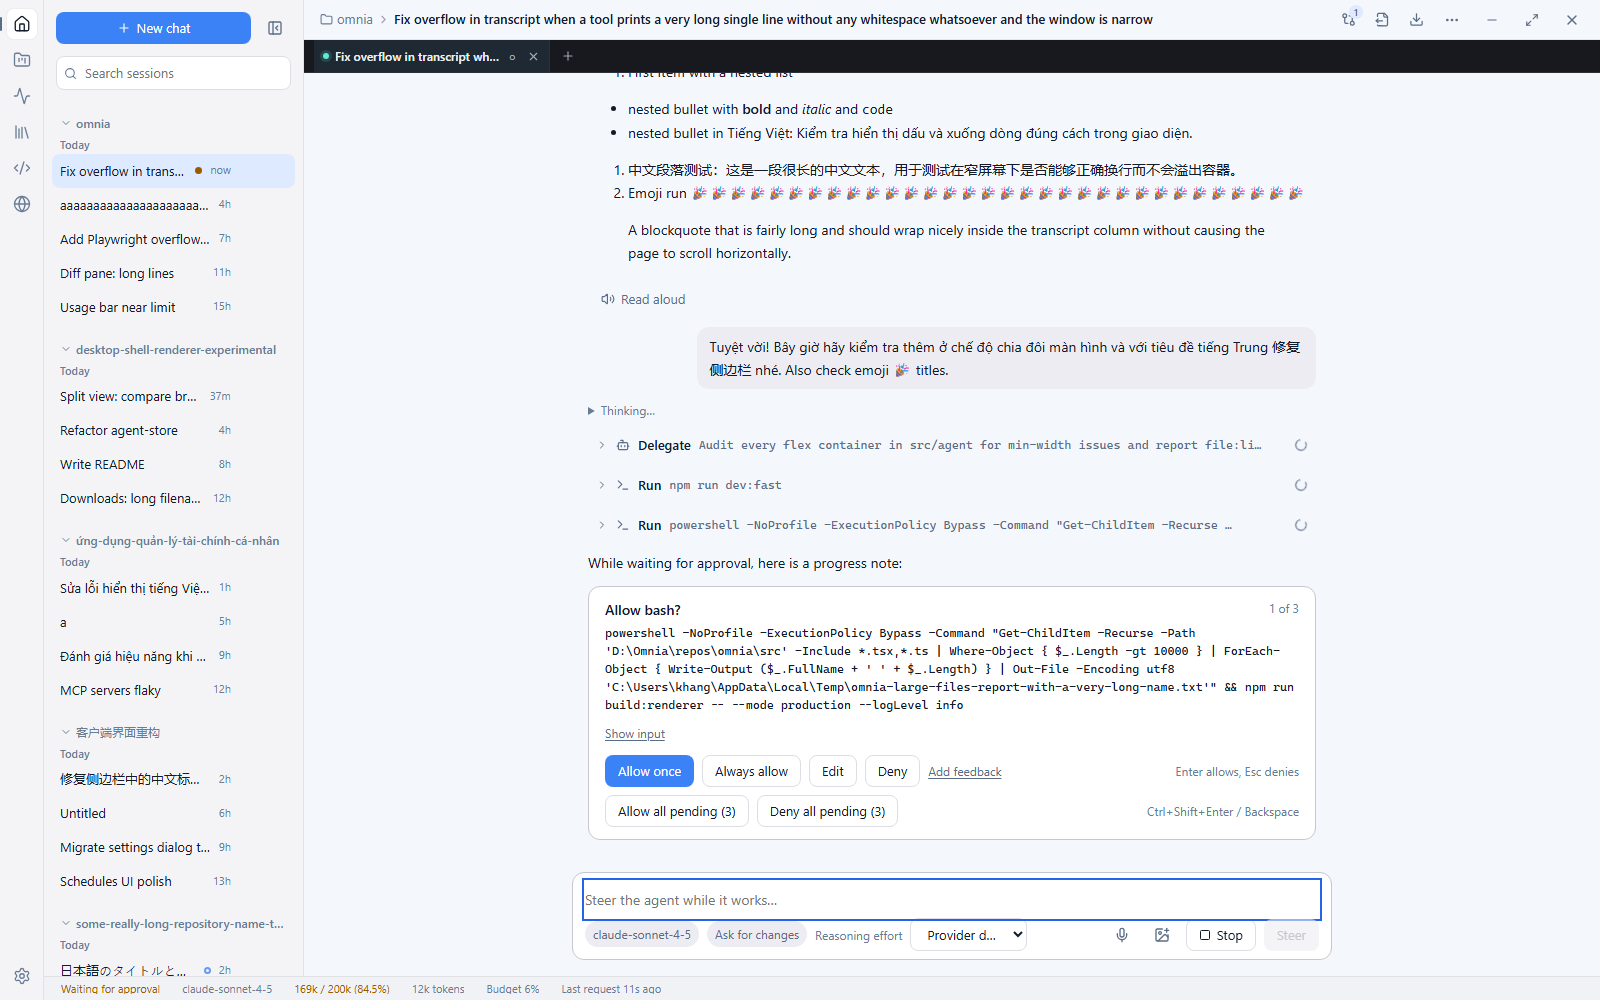
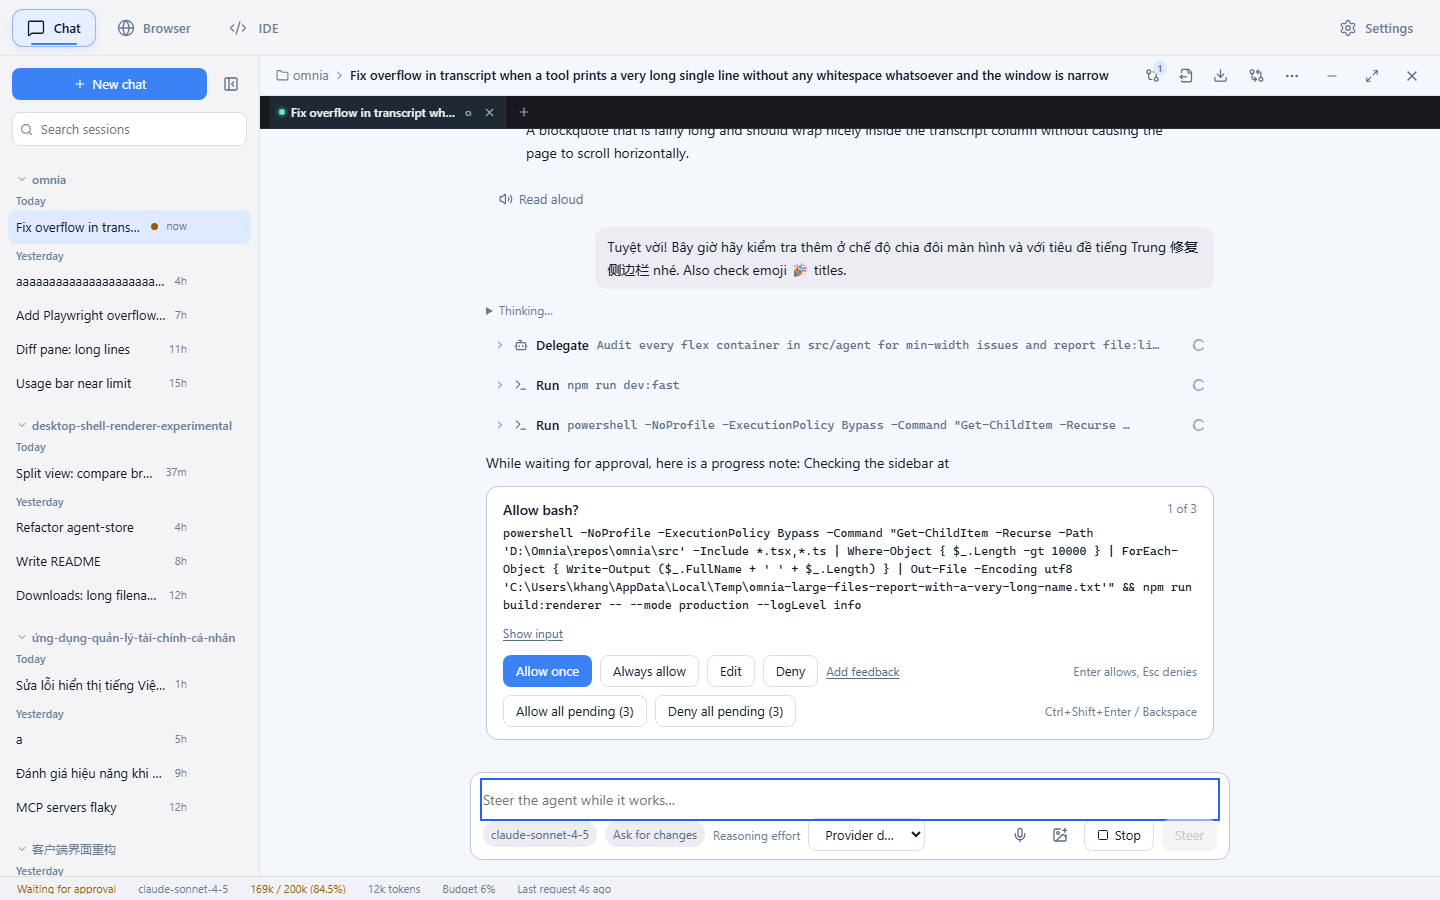
docs: publish unified shell preview evidence

diff --git a/src/main.tsx b/src/main.tsx
@@ -24,8 +24,14 @@ void (async () => {
   // bridge. Treat that as a browser preview too; checking only for `undefined`
   // leaves the shell trying to call an absent transformCallback and renders a
   // misleading "agent unavailable" state.
-  const hasTauriCallbackBridge = typeof window.__TAURI_INTERNALS__?.transformCallback === "function";
-  if (import.meta.env.DEV && !visualFixture && !hasTauriCallbackBridge && new URLSearchParams(window.location.search).has("mock")) {
+  const requestedMock = new URLSearchParams(window.location.search).has("mock");
+  // A `?mock` URL is an explicit request for the deterministic browser harness.
+  // Honor it even when an embedded host pre-injects a partial Tauri marker: some
+  // WebViews expose `__TAURI_INTERNALS__` before the callback bridge is ready,
+  // which otherwise races the mock install and produces a misleading startup
+  // error (`transformCallback` is undefined). A real desktop session never adds
+  // this query parameter, so the override is scoped to the preview harness.
+  if (import.meta.env.DEV && !visualFixture && requestedMock) {
     const devMock = await import("./agent/dev-mock");
     const scenario = devMock.parseScenario(window.location.search);
     if (scenario) afterMount = devMock.installDevMock(scenario);

diff --git a/README.md b/README.md
@@ -1,16 +1,18 @@
 # Omnia
 
-**Local first AI workbench with one workspace for Chat, Browser and IDE workflows.**
+**Local first AI workbench for chat, projects, IDE and browser workflows.**
 
 ![Omnia app overview](docs/assets/omnia-app-overview.png)
 
-Omnia is a Windows desktop AI workspace built for people who need more than a chat box. It combines durable conversations, project and non project sessions in one Chat mode, a native trust boundary, IDE and Browser surfaces with an integrated chat sidebar, and an inspectable harness for plans, tools, skills, MCP servers, plugins and subagents.
-
-The primary chrome is intentionally small: **Chat**, **Browser** and **IDE** are the only persistent mode buttons. Project routes, memory, skills and work views stay inside Chat and remain available from the command palette and deep links. The same session list stays visible beside the Browser and IDE workbenches, so changing surfaces does not discard the active context.
+Omnia is a Windows desktop AI workspace built for people who need more than a chat box. It combines durable conversations, project scoped context, provider neutral model routing, a native trust boundary, IDE and browser surfaces, and an inspectable harness for plans, tools, skills, MCP servers, plugins and subagents.
 
 The project exists to make advanced AI work reproducible. A run should show what was admitted, which provider was selected, which tools were allowed, how context was retrieved, what was persisted, and what still needs review. The native host owns credentials, storage, permissions and external process boundaries; the renderer owns presentation and interaction.
 
-> **Release snapshot:** Omnia 0.1.0 internal developer preview. The repository is actively being completed toward the DoD matrix in [`docs/qa/OMNIA_COMPLETION_LEDGER.md`](docs/qa/OMNIA_COMPLETION_LEDGER.md). The ledger is the authority for done, partial and blocked criteria.
+> **Release snapshot:** Omnia 0.1.2 internal developer preview. The repository is actively being completed toward the DoD matrix in [`docs/qa/OMNIA_COMPLETION_LEDGER.md`](docs/qa/OMNIA_COMPLETION_LEDGER.md). The ledger is the authority for done, partial and blocked criteria.
+
+## Primary surfaces
+
+Omnia opens in **Chat**, with a non project conversation by default. A project can be selected from the same Chat surface, so project and non project sessions share one session list and one workflow. **Browser** and **IDE** are the other two persistent top level modes; each keeps the shared Chat session sidebar available while its workbench is open. Projects, Work, Library, Memory and Skills remain Chat routes rather than separate top level products. The shell supports light and dark themes, keyboard navigation and a compact glass style that keeps the work area in focus.
 
 ## What is working in this snapshot
 
@@ -82,12 +84,14 @@ cargo check --manifest-path src-tauri/Cargo.toml --offline
 cargo test --manifest-path src-tauri/Cargo.toml --workspace --all-features --offline
 ```
 
+The current snapshot also has dated focused receipts: the renderer build completed with 2,099 modules; the primary shell and command palette suites covered 36 tests; the browser surface suites covered 73 renderer tests and 24 native tests; the headless performance gate covered 76 samples with zero runtime errors and a 2,638 ms page ready p95; and the supported native loader discovered 711 integration tests. These receipts cover local renderer and native contract paths. Packaged WebView2, live provider billing, GPU/DPI and long running endurance evidence remain explicitly tracked as partial or blocked in the ledger.
+
 The canonical native integration target is the `omnia_native` test target. On some Windows setups, the legacy library-test executable can fail before discovery with `STATUS_ENTRYPOINT_NOT_FOUND (0xc0000139)`; that environment limitation is tracked in the ledger and does not replace the supported integration target.
 
 ## First walkthrough
 
 1. Start the desktop app in **Chat** for a non project conversation (project sessions use the same surface).
-2. Open **Projects** from the Chat workspace, create a project and add a read only workspace folder or file pointer.
+2. Open **Projects**, create a project and add a read only workspace folder or file pointer.
 3. Send a prompt. Native preparation freezes the run, records bounded project retrieval and context receipts when a readable grant is selected, and keeps the user message last. The current retrieval lane still reports provider-input admission as withheld.
 4. Open the inspector to review model, effort, tools, context and usage receipts.
 5. Open **Services** to inspect skills, subagent roles, plugin and MCP trust state without launching an external connector.

diff --git a/.agents/checkpoints/fresh-preview-evidence-20261108.md b/.agents/checkpoints/fresh-preview-evidence-20261108.md
@@ -1,0 +1,35 @@
+# Fresh preview UI evidence — 2026-11-08
+
+## Scope
+
+Deterministic renderer preview evidence for the unified Omnia shell. The capture uses the local browser mock fixture so the screenshot is reproducible without provider credentials or a packaged Tauri runtime.
+
+## Command and endpoint
+
+```powershell
+npm.cmd run build:renderer
+node_modules\\.bin\\vite.cmd preview --host 127.0.0.1 --port 4175 --strictPort
+```
+
+Open:
+
+```text
+http://127.0.0.1:4175/?mock=long
+```
+
+For this capture only, the renderer build was produced from a temporary local guard relaxation that allows the explicit `?mock` fixture in a production preview. `src/main.tsx` was restored immediately after capture; normal source behavior remains DEV-only mock installation.
+
+## Observed result
+
+- Build: **pass**, 2099 modules, 46.63 s.
+- Browser mock: **active**, scenario `long`.
+- Playwright page errors: **0**.
+- Rendered UI: populated sessions, transcript, approval card and the three primary modes `Chat`, `Browser`, `IDE` with Settings.
+- Screenshot: [`artifacts/ui/omnia-shell-chat-nav-final.png`](../../artifacts/ui/omnia-shell-chat-nav-final.png)
+- Viewport: `1440x900`.
+- PNG size: `142792` bytes.
[1 lines of base64/hex data omitted]
+
+## Boundary
+
+This receipt proves renderer visual behavior against the deterministic mock only. It does not prove packaged Tauri/WebView2 startup, live provider access, native browser/IDE integration, or external network behavior.
